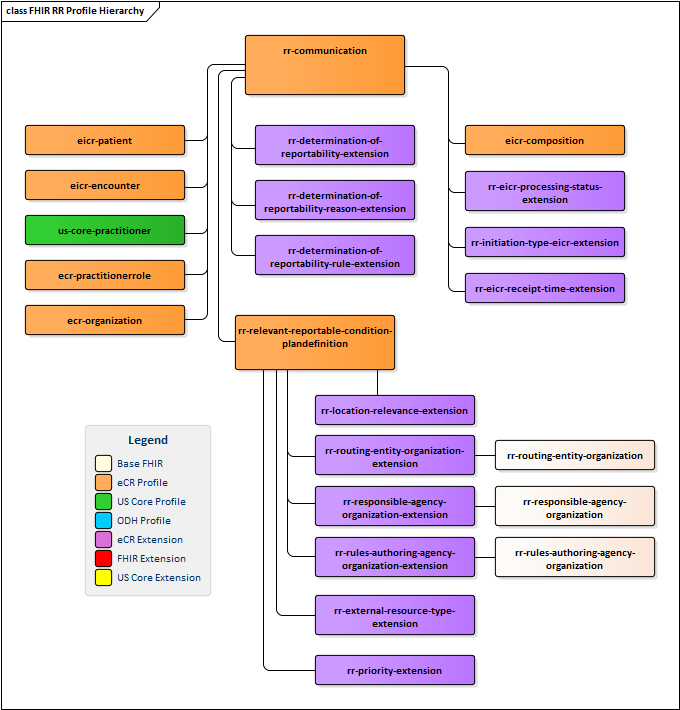
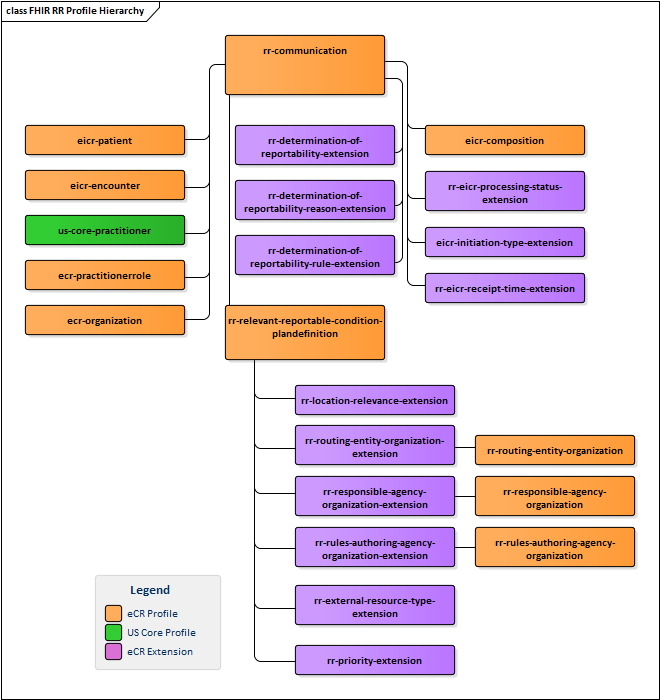
Fixed errors, updated prose, added table

diff --git a/source/pages/Electronic_Initial_Case_Report_(eICR)_Transaction_and_Profiles.md b/source/pages/Electronic_Initial_Case_Report_(eICR)_Transaction_and_Profiles.md
@@ -8,15 +8,17 @@ active: Electronic Initial Case Report (eICR) Transaction and Profiles
 
 ### Electronic Initial Case Report (eICR) Transaction and Profiles
 
-The eICR transaction involves the transmission of data identified by a Council of State and Territorial Epidemiologists Task Force as being important to a case report.
-It also includes the trigger codes that matched to initiate the repooccurt, a step toward a structured travel history, and a vital sign snapshot.
-The eICR is conveyed as an unsolicited push transaction from healthcare to public health.
-There may be several different intermediaries involved in the transmission including Health Information Exchanges, Health Data Networks, and the Association of Public Health Laboratories (APHL) AIMS platform. 
+The eICR transaction involves the transmission of data identified by a Council of State and Territorial Epidemiologists Task Force as being important to a case report. 
 
-In this implementation guide the reference transport transaction is a FHIR POST, but other transport mechanisms may be added or substituted as the data travel to the appropriate public health agencies.
+An eICR document can be automatically initiated by matching on trigger codes, manually initiated by an action of the provider of care because they suspect there may be a reportable condition or alternately initiated by automated, forced reporting. The following matrix illustrates the types of initiation:
+
+<table><tr><td><img src="InitiationTypeTable.jpg" style="width:100%;"/></td></tr></table>
+
+The eICR also includes a step toward a structured travel history, pregnancy information, occupational data, therapeutic response to medication, homeless information and a vital sign snapshot. The eICR may be conveyed through FHIR messaging or as an unsolicited push transaction from healthcare to public health (see <a href="Transport_Options.html">Transport Options</a> for further details). There may be several different intermediaries involved in the transmission including Health Information Exchanges, Health Data Networks, and the Association of Public Health Laboratories (APHL) AIMS platform. 
+
 In the FHIR eICR transaction to PHAs the RR payload may be added to provide the PHAs with information about what has been determined to be reportable, what PHAs have been sent eICR information, and what else has been communicated to healthcare.
 
-The following profiles and extensions have been defined for the eICR transactions. The eICR Composition profile is the starting point for the transaction and all the other profiles are referenced from that profile (see diagram below).
+The following profiles and extensions have been defined for the eICR transactions. The eICR Composition profile is the starting point for the transaction and all the other profiles are referenced from that profile (see diagram below for the main profile relationships).
 
 #### Profiles
 <ul>
@@ -38,6 +40,7 @@ The following profiles and extensions have been defined for the eICR transaction
 #### Extensions
 <ul>
   <li><a href="StructureDefinition-eicr-trigger-code-flag-extension.html">eICR Trigger Code Flag Extension</a></li>
+	<li><a href="StructureDefinition-eicr-initiation-type-extension.html">eICR Initiation Type Extension</a></li>
   <li><a href="StructureDefinition-eicr-initiation-reason-extension.html">eICR Manually Initiated Reason Extension</a></li>
   <li><a href="StructureDefinition-ecr-organization-extension.html">eCR Organization Extension</a></li>
   <li><a href="StructureDefinition-travel-history-address-extension.html">Travel History Address Extension</a></li>
@@ -46,6 +49,6 @@ The following profiles and extensions have been defined for the eICR transaction
 	<li><a href="StructureDefinition-date-recorded-extension.html">Date Recorded Extension</a></li>
 </ul>
 
-<table><tr><td><img src="FHIR eICR Profile Hierarchy.png" /></td></tr></table>
+<table><tr><td><img src="FHIR eICR Profile Hierarchy.png" style="width:100%;" /></td></tr></table>
 
 [Next Page](Reportability_Response_(RR)_Transaction_and_Profiles.html)

diff --git a/source/pages/Reportability_Response_(RR)_Transaction_and_Profiles.md b/source/pages/Reportability_Response_(RR)_Transaction_and_Profiles.md
@@ -49,7 +49,7 @@ The following profiles and extensions have been defined for the Reportability Re
 <ul>
   <li><a href="StructureDefinition-ecr-organization-extension.html">eCR Organization Extension</a></li>
   <li><a href="StructureDefinition-rr-location-relevance-extension.html">Location Relevance Extension</a></li>
-  <li><a href="StructureDefinition-rr-eicr-initiation-type-extension.html">eICR Initiation Type Extension</a></li>
+  <li><a href="StructureDefinition-eicr-initiation-type-extension.html">eICR Initiation Type Extension</a></li>
   <li><a href="StructureDefinition-rr-eicr-processing-status-extension.html">eICR Processing Status Extension</a></li>
   <li><a href="StructureDefinition-rr-determination-of-reportability-extension.html">Extension Determination of Reportability</a></li>
   <li><a href="StructureDefinition-rr-determination-of-reportability-reason-extension.html">Extension Determination of Reportability Reason</a></li>

diff --git a/source/pages/_includes/eicr-initiation-reason-extension-intro.md b/source/pages/_includes/eicr-initiation-reason-extension-intro.md
@@ -4,8 +4,8 @@ layout: default
 active: StructureDefinition-eicr-initiation-reason-extension-intro
 ---
 
-This Extension profile represents that this eICR was either manually or alternately initiated and contains the explanation for the initiation of the eICR. 
+This extension contains an explanation for the manual or alternate initiation of the eICR. If there are multiple distinct reasons for manual or alternate initiation then each reason should be contained in a separate eICR Initiation Reason Extension. 
 
 The reason may be entered either as:
 * free text (string) 
-* coded value (valueCodeableConcept) (not ncesssarily initiated by a provider of care bul might be "programmed-in" by the EHR implementer for some purpose)
+* coded value (valueCodeableConcept) (not necessarily initiated by a provider of care but might be "programmed-in" by the EHR implementer for some purpose)

diff --git a/source/pages/_includes/eicr-initiation-type-extension-intro.md b/source/pages/_includes/eicr-initiation-type-extension-intro.md
@@ -1,0 +1,8 @@
+---
+title: StructureDefinition-eicr-initiation-type-extension-intro
+layout: default
+active: StructureDefinition-eicr-initiation-type-extension-intro
+---
+
+This Extension profile represents that the eICR, was either manually or alternately initiated by the provider. When code is set to PHC1464, it indicates that the eICR was manually initiated by an action of the provider of care because they suspect there may be a reportable condition. When the code is set to PHC2235, it indicates that the eICR was initiated by automated, forced reporting. Unlike eICRs manually initiated by a provider, PHC2235 will be routed only to the public health agency of the jurisdiction of care unless another reportable condition is found. The eICR could also contain RCTC trigger codes.
+
